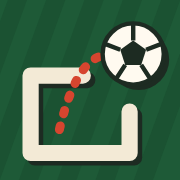
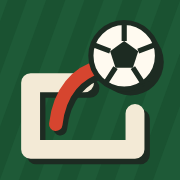
Ícone melhorado e reset dos jogos da liga do Bruno
Claude-Session: https://claude.ai/code/session_01S8REJbLBu5n5dRGkcFncsr

Changed region(s): [[0.1111, 0.1111, 0.9444, 0.9167], [0.8611, 0.4444, 0.8889, 0.4722]]

diff --git a/index.html b/index.html
@@ -859,6 +859,10 @@ const LIGA = {
   nome: 'Liga dos Amigos',
   jogadores: ['Bruno', 'CC', 'Freitas', 'Viegas'],
   porDia: 3,
+  // apagar os jogos de alguém UMA vez (o 1.º telemóvel que abrir a página faz o reset e marca-o em ligas/<id>/resets/<id do reset>)
+  resets: [
+    {id:'2026-11-18-bruno', nome:'Bruno', motivo:'jogou com a versão que tirava 5 s por erro'},
+  ],
   db: 'https://fora-da-caixa-b1efa-default-rtdb.europe-west1.firebasedatabase.app',   // endereço da base de dados Firebase, ex.: https://fora-da-caixa-default-rtdb.europe-west1.firebasedatabase.app
 };
 if (window.__LIGA_DB) LIGA.db = window.__LIGA_DB;   // só para os testes
@@ -871,8 +875,24 @@ function setMe(n) { ME = n; try { localStorage.setItem(ME_KEY, n); } catch (e) {
 function lisDate(d = new Date()) { return new Intl.DateTimeFormat('en-CA', {timeZone:'Europe/Lisbon', year:'numeric', month:'2-digit', day:'2-digit'}).format(d); }
 function weekStart(ds) { const d = new Date(ds + 'T12:00:00Z'); const wd = (d.getUTCDay() + 6) % 7; d.setUTCDate(d.getUTCDate() - wd); return d.toISOString().slice(0, 10); }
 const ligaUrl = path => `${LIGA.db.replace(/\/$/, '')}/ligas/${LIGA.id}/${path}.json`;
+let resetsP = null;
+function ensureResets() {
+  if (!resetsP) resetsP = (async () => {
+    if (!LIGA.db || !LIGA.resets?.length) return;
+    try {
+      const r = await fetch(ligaUrl('resets'), {cache:'no-store'}); if (!r.ok) return;
+      const feitos = (await r.json()) || {};
+      for (const rs of LIGA.resets) if (!feitos[rs.id]) {
+        await ligaPut(`jogos/${rs.nome}`, null);
+        await ligaPut(`resets/${rs.id}`, {nome:rs.nome, feito:Date.now()});
+      }
+    } catch (e) { resetsP = null; }   // sem ligação: tenta outra vez na próxima atualização
+  })();
+  return resetsP;
+}
 async function ligaGet() {
   if (!LIGA.db) return null;
+  await ensureResets();
   LG.aCarregar = true;
   try { const r = await fetch(ligaUrl('jogos'), {cache:'no-store'}); if (!r.ok) throw new Error('HTTP ' + r.status); LG.dados = (await r.json()) || {}; LG.erro = null; }
   catch (e) { LG.erro = e.message || 'sem ligação'; }

diff --git a/CLAUDE.md b/CLAUDE.md
@@ -13,13 +13,14 @@ Fala sempre em **português de Portugal** e de forma simples: o utilizador não 
 
 ## Aspeto (estilo "caderneta retro")
 - Cores e letras nos tokens do `:root` (creme `--bg`, verde `--acc`, vermelho `--red`, `--dark`; Alfa Slab One nos títulos, Barlow no texto; `html{font-synthesis:none}` porque a Alfa só tem um peso). Cores dos níveis de remate em `--t0..--t5` E no array `TIERS` (JS) — mudar os dois. Cores do relvado em `drawPitch()`.
-- Ícone: `icones/icone.svg` (símbolo no topo, favicon) + `icone-180/192/512.png` (iPhone e `manifest.webmanifest`). Há 4 variantes em `icones/opcao1..4.svg`; para trocar, copiar a escolhida para `icone.svg` e refazer os PNG (render da SVG a 180, 192 e 512 px).
+- Ícone: `icones/icone.svg` (símbolo no topo, favicon) + `icone-180/192/512.png` (iPhone e `manifest.webmanifest`). O atual é a versão melhorada da opção 1 (`icones/opcao1b.svg`); há outras variantes em `icones/opcao1..4.svg`; para trocar, copiar a escolhida para `icone.svg` e refazer os PNG (render da SVG a 180, 192 e 512 px).
 
 ## Liga dos Amigos
 - Jogadores em `LIGA.jogadores` (no `index.html`, bloco "LIGA DOS AMIGOS"); para juntar um amigo, acrescentar o nome. `LIGA.porDia` = 3 jogos por dia que contam.
 - Cada pessoa escolhe quem é na 1.ª visita (`localStorage` `fora-da-caixa-eu`; "trocar" no início).
 - Jogo da liga = 7 perguntas da categoria `liga` (banco + épocas passadas, sem as desta época), semente `liga:<id>:<dia de Lisboa>:<n>` → o jogo n de cada dia é igual para todos. Conta logo que começa e guarda os pontos a cada resposta (sair a meio conta com o que tinha).
 - Resultados no Firebase Realtime Database (API REST, sem biblioteca): `LIGA.db` = endereço da base de dados; dados em `ligas/<id>/jogos/<nome>/<AAAA-MM-DD>/j<n>` = {pontos, golos, golacos, perguntas, estado, inicio, fim}. A classificação (Hoje / Esta semana / Total) atualiza-se sozinha a cada 15 s e ao voltar à app.
+- Apagar os jogos de alguém (reset): acrescentar `{id, nome, motivo}` a `LIGA.resets`; o 1.º telemóvel que abrir a página apaga `jogos/<nome>` e marca `resets/<id>` (corre uma só vez). Esta sessão não chega ao Firebase, por isso é sempre feito assim, pela app.
 - Testar sem Firebase: `window.__LIGA_DB = 'http://127.0.0.1:8767'` antes de a página carregar, com um servidor que imite a API REST (GET/PUT em `/caminho.json`, com CORS).
 
 ## Perguntas
